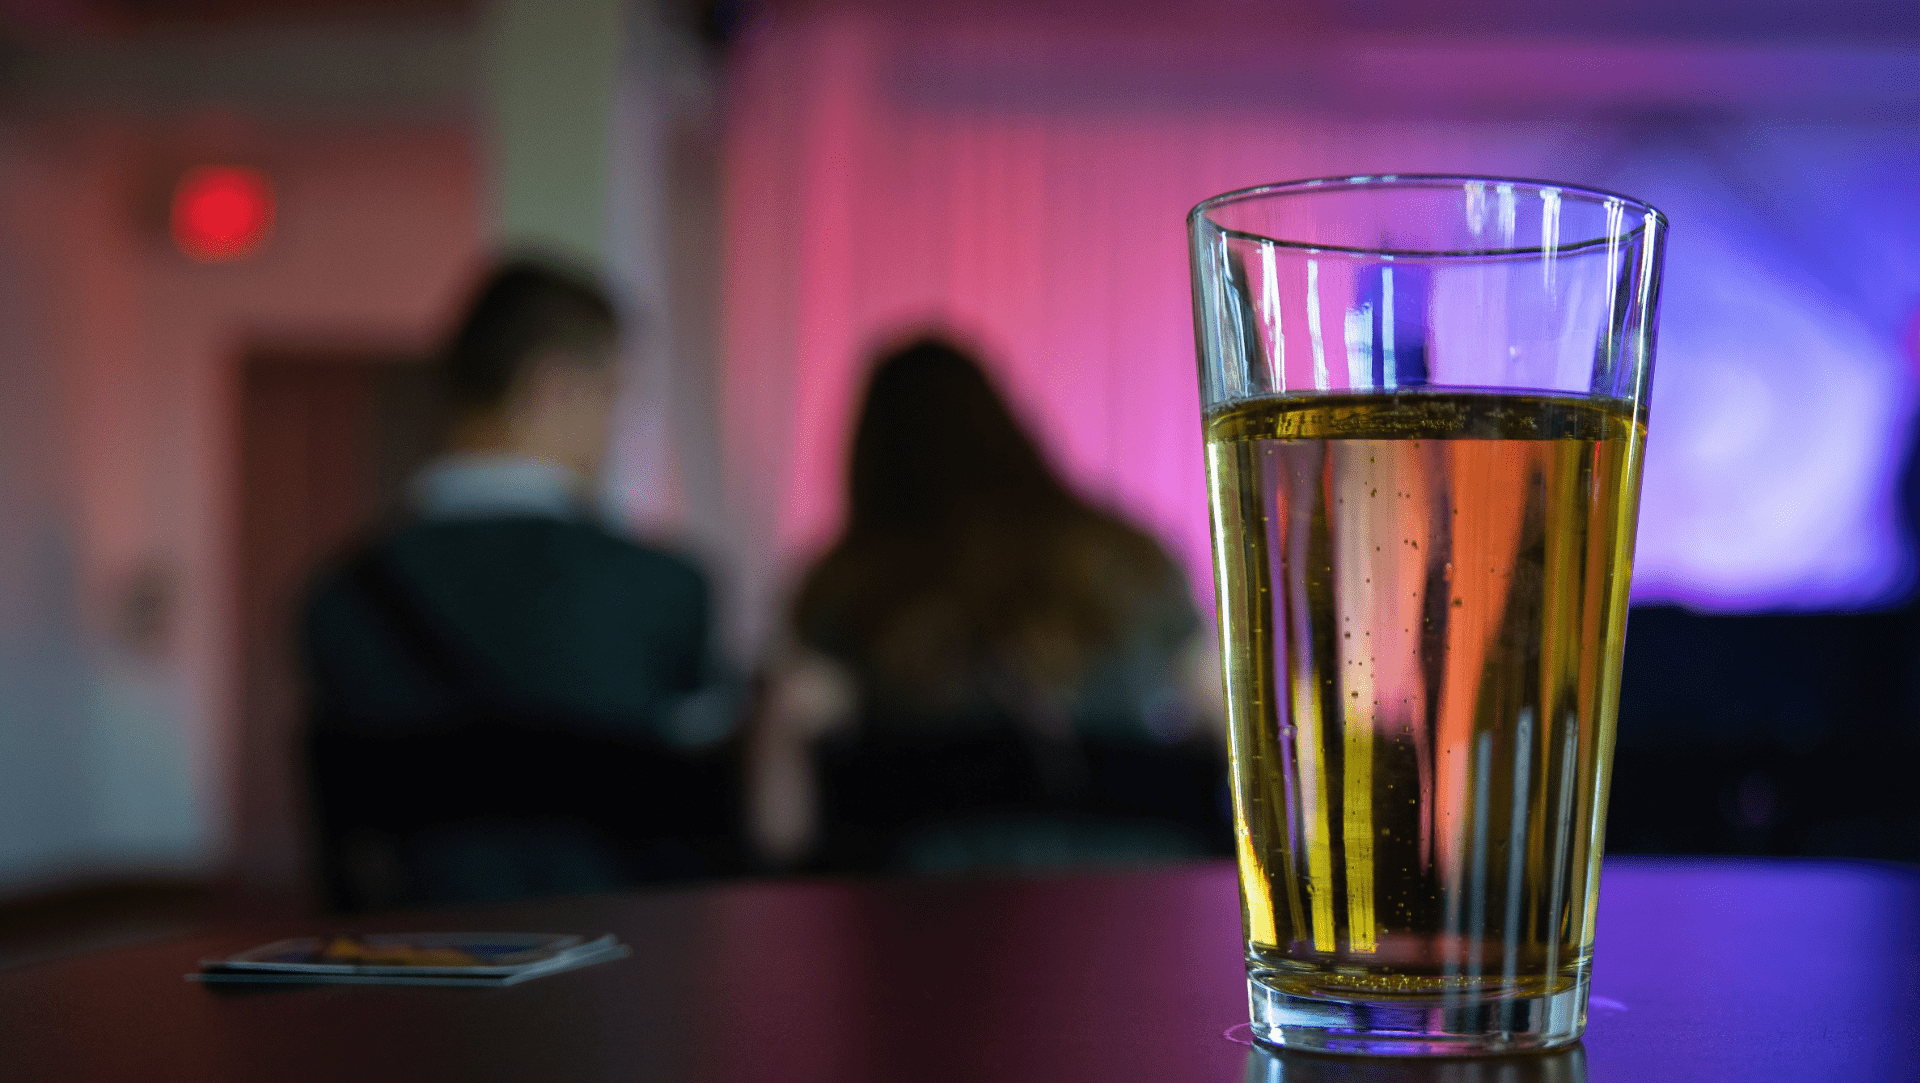
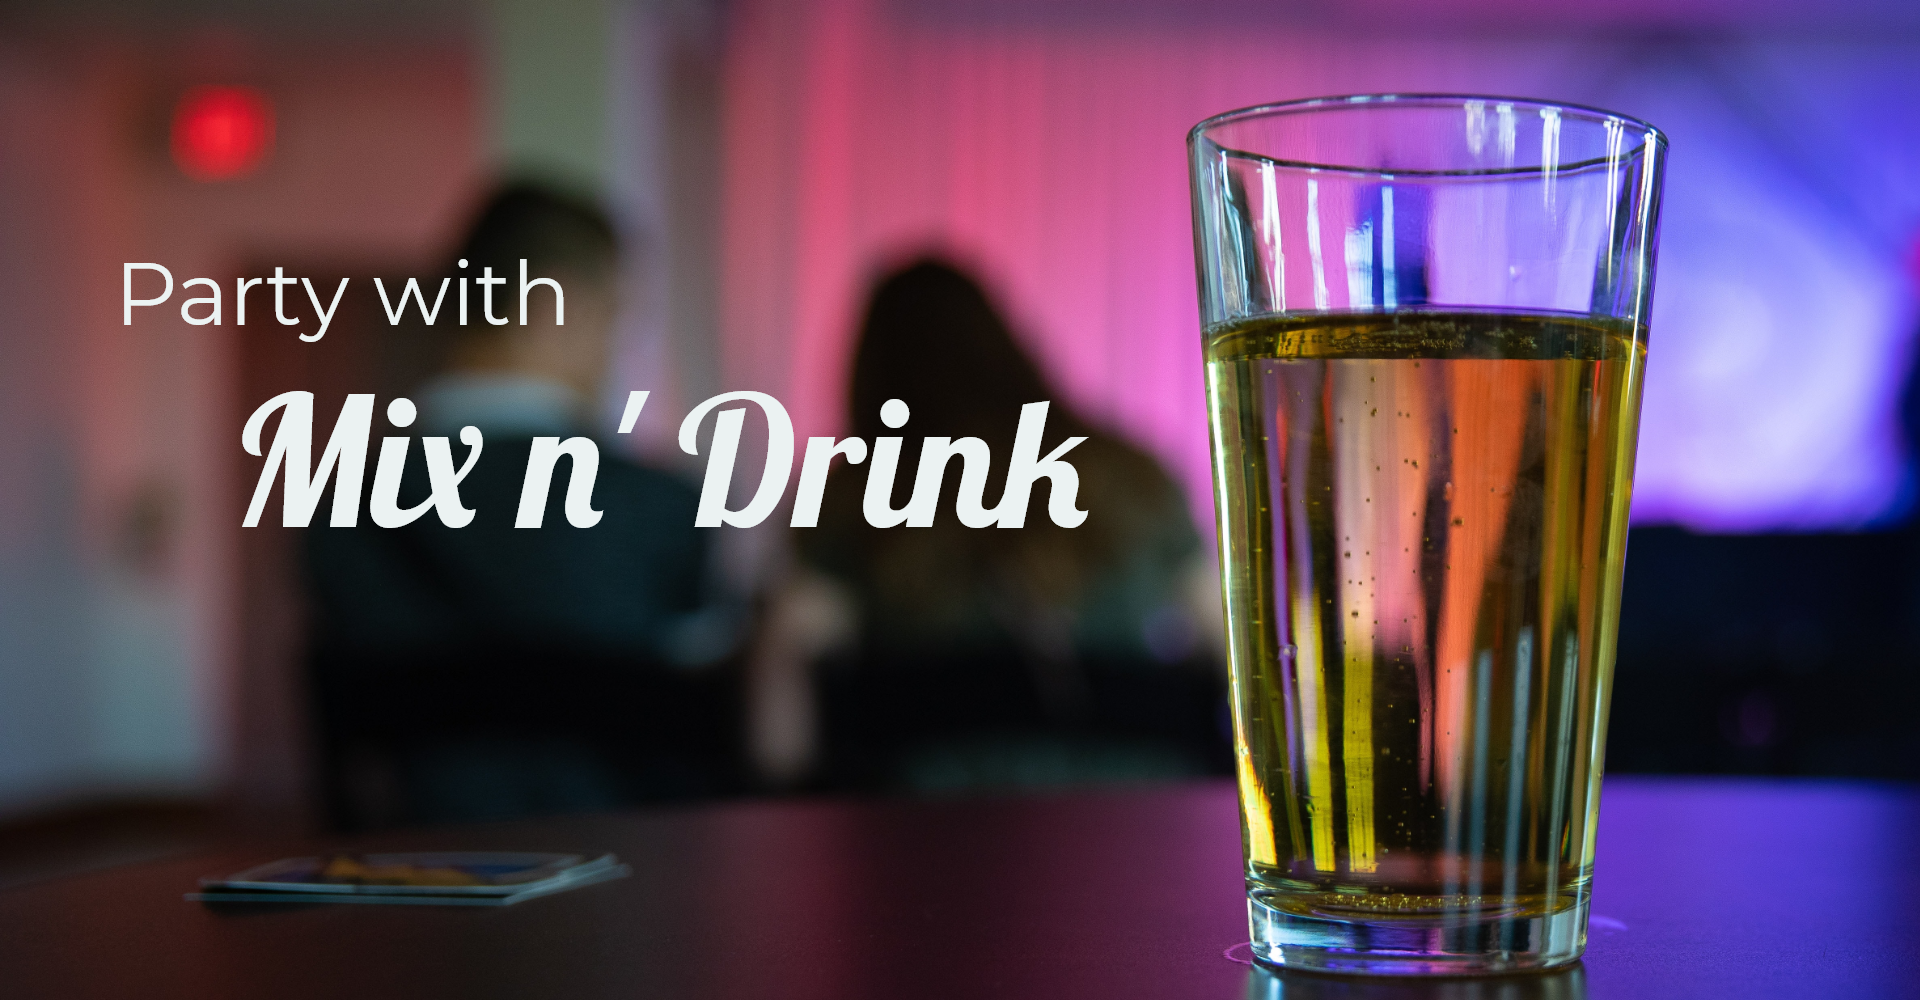
I added 2 sections
for the section where are showcased the bottles I was thinking of adding an animation with js so that when you hover over they zoom in and therefor become bigger

diff --git a/WebDoc_Code/index.html.html b/WebDoc_Code/index.html.html
@@ -12,7 +12,7 @@
     <link rel="preconnect" href="https://fonts.gstatic.com">
     <link href="https://fonts.googleapis.com/css2?family=Poppins:wght@500&display=swap" rel="stylesheet">
     <link rel="preconnect" href="https://fonts.gstatic.com">
-    <link href="https://fonts.googleapis.com/css2?family=Montserrat:wght@100&display=swap" rel="stylesheet">
+    <link href="https://fonts.googleapis.com/css2?family=Montserrat:wght@500&display=swap" rel="stylesheet">
 </head>
 
 <body>
@@ -21,15 +21,52 @@
         <p> You must be 18 years old to buy alcohol with over 16.5%</p>
     </header>
 
+
     <main>
         <div class="intro">
-        <p class="intro_text">Party with</p>
-        <p class="intro_logo">Mix n' Drink</p>
-        <img src="images/shot_glass.png" alt="Shot glass close up" class="intro_img">
+            <img src="images/shot_glass.png" alt="Shot glass close up" class="intro_img">
         </div>
+
+
+        <div class="showcase_group">
+            <p class="button_showcase button_left">&#10094;</p>
+
+            <img src="images/bottle_one.png" alt="bottle" class="showcase_img">
+            <img src="images/bottle_two.png" alt="bottle" class="showcase_img">
+            <img src="images/bottle_three.png" alt="bottle" class="showcase_img">
+            <img src="images/bottle_four.png" alt="bottle" class="showcase_img">
+
+            <p class="button_showcase button_right">&#10095;</p>
+        </div>
+
+
+
+        <div class="center_CTA_button">
+            <a class="CTA_button" href="#"> Order here now</a>
+        </div>
+
+
     </main>
 
-    <footer></footer>
+
+
+
+
+    <footer>
+        <div class="icon_group">
+            <a href="#"> <img src="images/icons/linkedin_icon.png" alt="linkedin_icon" class="SoMe_icon"></a>
+            <a href="#"> <img src="images/icons/instagram_icon.png" alt="instagram_icon" class="SoMe_icon"></a>
+            <a href="#"><img src="images/icons/facebook_icon.png" alt="facebook_icon" class="SoMe_icon"></a>
+        </div>
+
+
+        <div class="footer_text_group">
+            <a href="#" class="footer_text">Contacts</a>
+            <a href="#" class="footer_text">Terms and conditions</a>
+            <a href="#" class="footer_text">Payment methods</a>
+            <a href="#" class="footer_text">FAQ</a>
+        </div>
+    </footer>
 
 
     <!-- scripts -->

diff --git a/WebDoc_Code/css/mystyle.css b/WebDoc_Code/css/mystyle.css
@@ -22,9 +22,6 @@ html {
     background-color: #F3F3F3;
 }
 
-
-
-
 .page_body {
     max-width: 100%;
     padding: 5px;
@@ -35,6 +32,8 @@ html {
     padding: 0;
     margin: 0;
 }
+
+
 /*---- HEADER ------*/
 header {
     text-align: center;
@@ -46,29 +45,100 @@ header {
     padding: 5px 0;
 }
 
+
 /*---- INTRO SCREEN ------*/
+.intro {}
+
 .intro_img {
     max-width: 100%;
-    position: absolute;
+
 }
 
-.intro_text {
+
+/*---- BOTTLE SHOWCASE ------*/
+.showcase_group {
+    display: flex;
+    flex-direction: row;
+    justify-content: center;
+    margin-bottom: 40px;
+}
+
+.button_showcase {
+    font-size: 4rem;
+    color: #E1067A;
+    margin-top: 190px;
+}
+
+.showcase_img {
+    width: 150px;
+    height: auto;
+    margin: 0 55px;
+}
+
+.button_left {
+    margin-right: 20px;
+}
+
+.button_right {
+    margin-left: 20px;
+}
+
+.center_CTA_button {
+    justify-content: center;
+    text-align: center;
+    margin: 30px auto;
+}
+
+.CTA_button {
+    text-decoration: none;
     font-family: 'Montserrat', sans-serif;
-    font-weight: 200;
-    z-index: 99;
-    font-size: 3.5rem;
-    position: absolute;
-    color: #EBF2F2;
-    margin-left: 80px;
-    margin-top: 230px;
+    font-size: 2.2rem;
+    color: #0C0C23;
+    border: solid 3px #E1067A;
+    padding: 15px 50px;
+    margin-bottom: 20px;
+    border-radius: 50px;
+    text-align: center;
 }
 
-.intro_logo {
-    font-family: 'Lobster', cursive;
-    font-size: 8rem;
-    position: absolute;
-    z-index: 98;
+
+/*---- FOOTER ------*/
+footer {
+    background-color: #0C0C23;
+    display: flex;
+    flex-direction: row;
+    padding-top: 30px;
+    padding-bottom: 30px;
+    width: 100%;
+    margin-top: 30px;
+
+}
+
+.icon_group {
+    margin-left: 60px;
+}
+
+.SoMe_icon {
+    background-color: #EBF2F2;
+    padding: 15px;
+    border-radius: 20px;
+    width: 85px;
+    height: auto;
+    margin: 10px;
+    opacity: 90%;
+}
+
+.footer_text_group {
+    text-align: end;
     color: #EBF2F2;
-    margin-left: 160px;
-    margin-top: 300px;
+    margin-left: 600px;
+    display: flex;
+    flex-direction: column;
+}
+
+.footer_text {
+    text-decoration: none;
+    font-family: 'Poppins', sans-serif;
+    font-size: 1.5rem;
+    color: #EBF2F2;
 }
